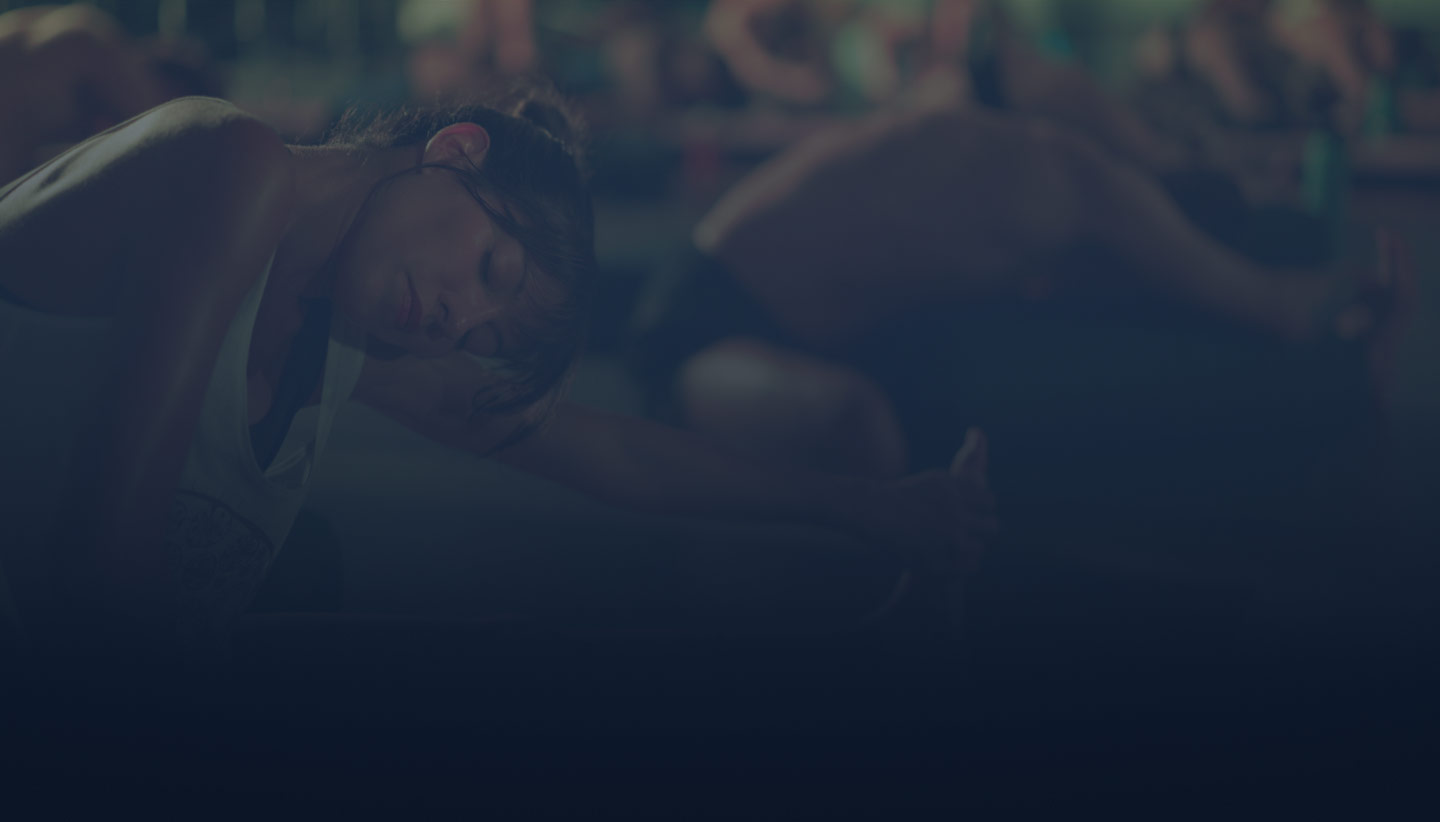
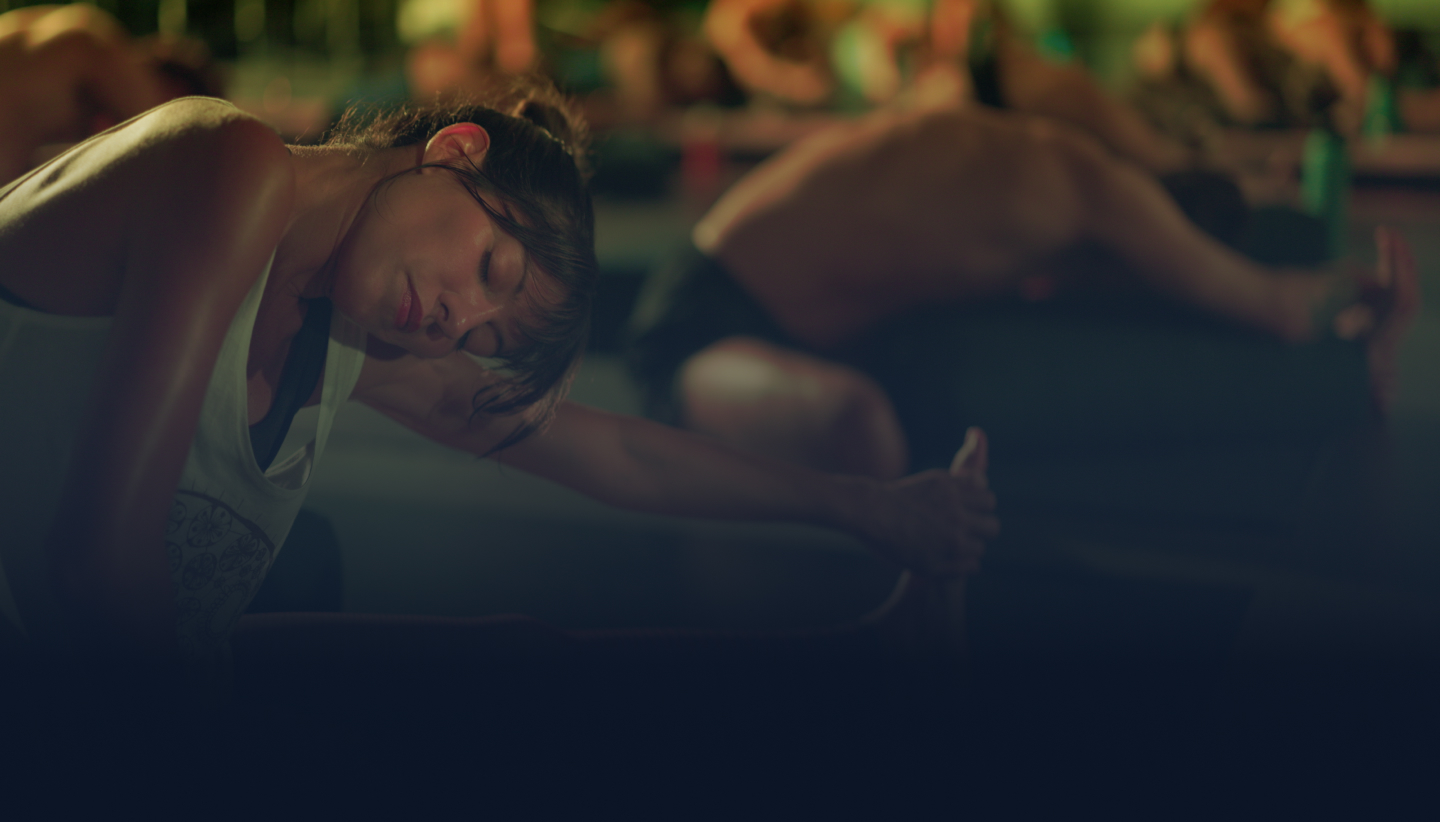
updated background images

diff --git a/src/components/TeacherTrainingPage/index.js b/src/components/TeacherTrainingPage/index.js
@@ -2,6 +2,7 @@ import { Container } from "theme-ui";
 import { useFormik } from "formik";
 import * as Yup from "yup";
 import { AnimatePresence } from "framer-motion";
+import PageBackground from "../PageBackground";
 import PageHeader from "../PageHeader";
 import Select from "../Forms/Select"; 
 import Input from "../Forms/Input";
@@ -115,6 +116,7 @@ const TeacherTrainingPage = () => {
 
     return(
         <>
+            <PageBackground src="/images/teacher-training/bg.jpg" />
             <PageHeader heading="Teacher training enrollment application">
                 <p>Empower the movement SHIFT Series</p>
             </PageHeader>

diff --git a/src/components/Footer/FooterLinks/index.js b/src/components/Footer/FooterLinks/index.js
@@ -17,7 +17,7 @@ const FooterLinks = () => {
             <LinkList>
                 <LinkItem><Link href="/workplace-wellness"><Anchor>Corporate / Group Wellness</Anchor></Link></LinkItem>
                 <LinkItem><Link href="#"><Anchor>Ambassador Program</Anchor></Link></LinkItem>
-                <LinkItem><Link href="#"><Anchor>Teacher Training</Anchor></Link></LinkItem>
+                <LinkItem><Link href="/teacher-training"><Anchor>Teacher Training</Anchor></Link></LinkItem>
             </LinkList>
         </Links>
     );

diff --git a/src/components/NewToYogaPage/index.js b/src/components/NewToYogaPage/index.js
@@ -104,7 +104,7 @@ const NewToYogaPage = () => {
 
     return(
         <>
-            <PageBackground src="/images/new-to-yoga/bg.png" />
+            <PageBackground src="/images/new-to-yoga/bg.jpg" />
             <Container>
                 <PageHeader heading="New to SHIFT?" />
                 <Intro>

diff --git a/src/components/AboutPage/index.js b/src/components/AboutPage/index.js
@@ -68,7 +68,7 @@ const About = () => {
     
     return(
         <>
-        <PageBackground src="/images/about/bg.png" />
+        <PageBackground src="/images/about/bg.jpg" />
         <PageHeader heading="About Us" />
         <Container>
             <Headline>

diff --git a/src/components/PageHeader/styles.js b/src/components/PageHeader/styles.js
@@ -2,7 +2,7 @@ import styled from '@emotion/styled';
 
 export const Intro = styled.div`
     text-align: center;
-    max-width: 712px;
+    width: 1000px;
     margin: 0 auto;
     padding: 20px;
 
